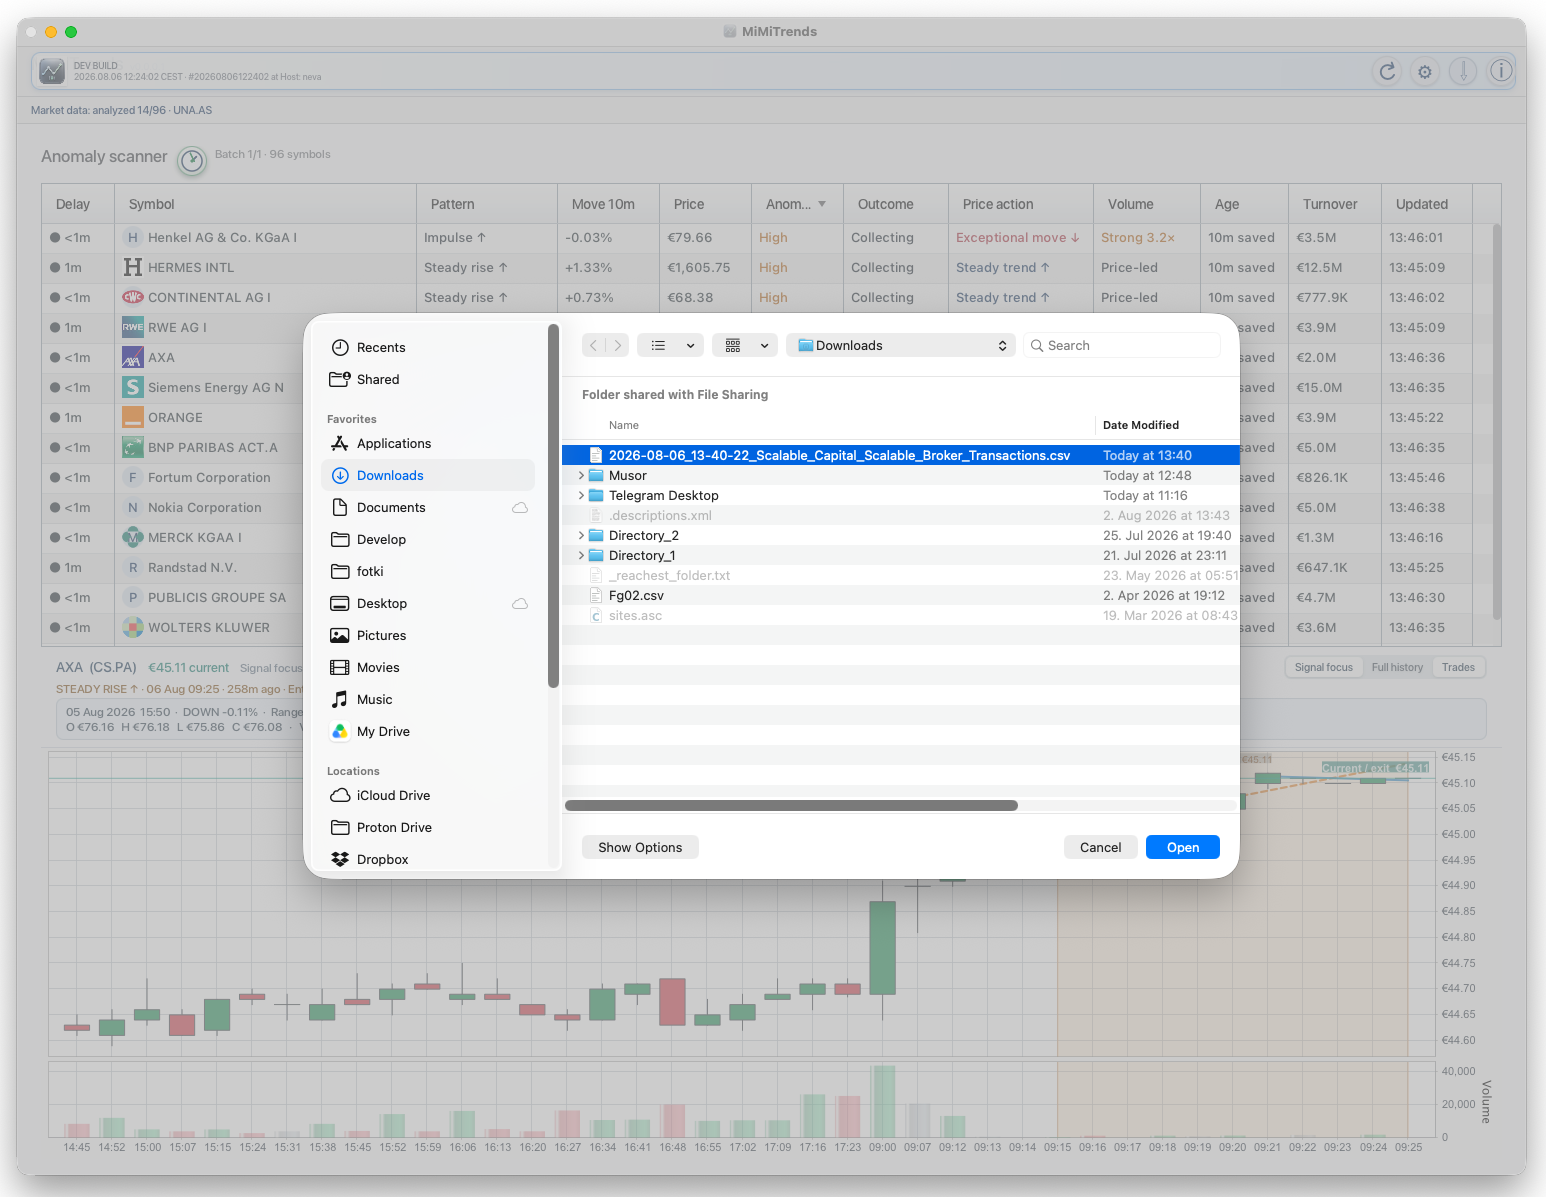
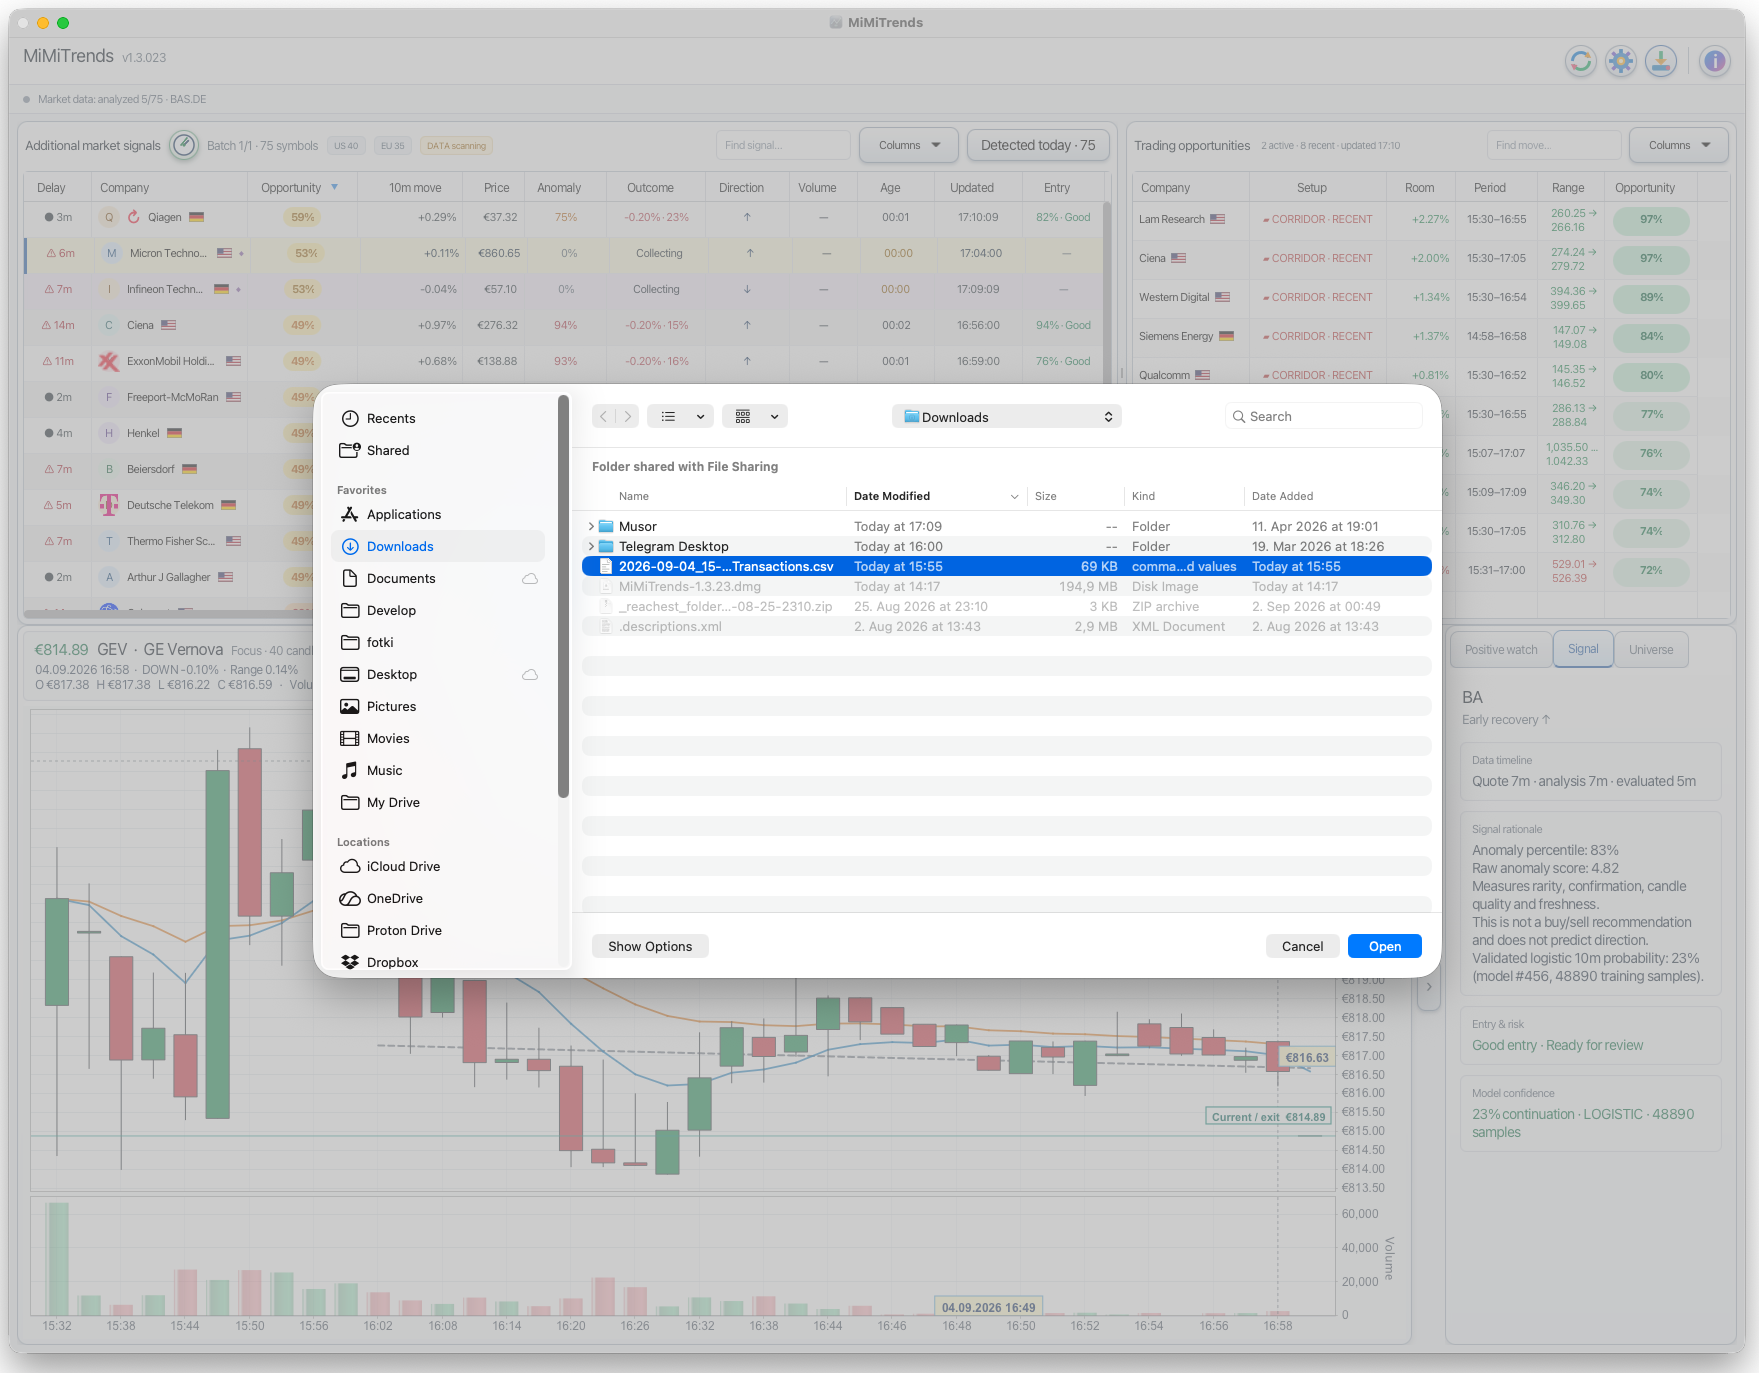
Refresh MiMiTrends screenshots and chart documentation
Replace the scanner, settings, and broker-import screenshots with current MiMiTrends 1.3.023 captures, and add a dedicated Positive watch screenshot so the gallery represents the current analytical workflow.

Update the Trends page copy and metadata to document today's exchange-local 1D session, EMA 9/21 overlays, the retrospective 30-candle trend, actionable opportunity context, and Positive watch without presenting those indicators as investment advice.

diff --git a/src/app/pages/trends/trends-page.component.html b/src/app/pages/trends/trends-page.component.html
@@ -66,11 +66,11 @@
             <div class="section-kicker">Recently improved</div>
             <div class="section-heading-block">
                 <h2 id="trends-latest-title">Sharper signals, cleaner evidence</h2>
-                <p>Current project work focuses on trustworthy timestamps, broader discovery, and patterns that remain useful as price ranges shift.</p>
+                <p>Current project work focuses on trustworthy session timing, actionable context, and chart evidence that makes recent movement easier to interpret.</p>
             </div>
             <div class="improvement-grid">
                 <article><span class="material-icons-outlined" aria-hidden="true">schedule</span><h3>Honest market time</h3><p>Broker hours and price-market hours are distinguished, while fallback timestamps remain explicit instead of making stale quotes look current.</p></article>
-                <article><span class="material-icons-outlined" aria-hidden="true">waves</span><h3>Range-aware cycles</h3><p>Repeating two- and three-minute traffic is recognized even when the underlying price range shifts.</p></article>
+                <article><span class="material-icons-outlined" aria-hidden="true">waves</span><h3>Readable intraday direction</h3><p>The 1D view stays inside today's exchange-local session, with EMA 9/21 and a clearly retrospective 30-candle trend over the price chart.</p></article>
                 <article><span class="material-icons-outlined" aria-hidden="true">travel_explore</span><h3>Leaders every cycle</h3><p>Top public performance and most-traded candidates are refreshed, resolved, and evaluated on each scan pass.</p></article>
             </div>
         </section>
@@ -79,7 +79,7 @@
             <div class="quick-strip-item"><strong>Discover</strong><span>Read a bounded first-page set of current performance and trading-volume leaders before every scan.</span></div>
             <div class="quick-strip-item"><strong>Detect</strong><span>Find statistically unusual impulses, reversals, and persistent trends instead of ordinary noise.</span></div>
             <div class="quick-strip-item"><strong>Rank</strong><span>Prioritize fresh, explainable candidates with adaptive selection and configurable guardrails.</span></div>
-            <div class="quick-strip-item"><strong>Inspect</strong><span>Review candles, volume, signal context, and your imported executions on the same chart.</span></div>
+            <div class="quick-strip-item"><strong>Inspect</strong><span>Review candles, volume, EMA direction, signal context, and your imported executions on the same chart.</span></div>
         </section>
 
         <section class="feature-overview" id="features">
@@ -120,7 +120,7 @@
         </section>
 
         <section class="details" id="preview">
-            <div class="details-copy"><div class="section-kicker">Screenshots</div><h2 class="section-heading-title">Real screens from the Kotlin desktop app</h2><p class="hero-text">Inspect the scanner, chart, configuration, and local transaction-import workflow.</p></div>
+            <div class="details-copy"><div class="section-kicker">Screenshots</div><h2 class="section-heading-title">Real screens from the Kotlin desktop app</h2><p class="hero-text">Inspect the scanner, trend chart, positive watch, configuration, and local transaction-import workflow.</p></div>
             <div class="preview-grid trends-preview-grid">
                 <article class="preview-card" *ngFor="let screenshot of screenshots">
                     <button type="button" class="preview-card-trigger" (click)="openScreenshot(screenshot)" [attr.aria-label]="'Enlarge ' + screenshot.title">

diff --git a/src/app/pages/trends/trends-page.component.ts b/src/app/pages/trends/trends-page.component.ts
@@ -39,7 +39,13 @@ export class TrendsPageComponent implements OnInit {
             src: '/images/trends/MainWindow.png',
             alt: 'MiMiTrends anomaly scanner and signal chart',
             title: 'Scanner and signal chart',
-            description: 'Rank fresh signals, inspect minute candles, volume, entry context, and imported executions in one workspace.'
+            description: 'Rank fresh signals and actionable setups while inspecting minute candles, volume, EMA 9/21, Trend 30, and entry context in one workspace.'
+        },
+        {
+            src: '/images/trends/PositiveWatch.png',
+            alt: 'MiMiTrends positive watch list and intraday trend chart',
+            title: 'Positive watch and trend context',
+            description: 'Compare downside-safety candidates with current-session candles, confirmation counts, entry quality, EMA 9/21, and the retrospective 30-candle trend.'
         },
         {
             src: '/images/trends/ScannerSettings.png',
@@ -121,14 +127,14 @@ export class TrendsPageComponent implements OnInit {
 
     private applySeoMetadata(): void {
         const title = 'MiMiTrends — Local-First Market Anomaly Scanner for US and European Stocks';
-        const description = 'Local-first Kotlin and JavaFX stock scanner with performance-led discovery, fresh anomaly ranking, repeating short-cycle detection, and explainable US and European market analysis.';
+        const description = 'Local-first Kotlin and JavaFX stock scanner with fresh anomaly ranking, actionable opportunity retention, positive-watch context, and explainable intraday trend overlays for US and European equities.';
         const imageUrl = 'https://miminavi.tech/images/trends/MainWindow.png';
         const pageUrl = 'https://miminavi.tech/trends';
 
         this.document.title = title;
         this.setMeta('name', 'description', description);
         this.setMeta('name', 'application-name', 'MiMiTrends');
-        this.setMeta('name', 'keywords', 'MiMiTrends, market anomaly scanner, live stock leader discovery, stock performance scanner, most traded stocks, range-aware repeating price cycle detector, stock anomaly detector, unusual price movement, momentum scanner, US stock scanner, European stock scanner, Kotlin desktop app, JavaFX trading software, local-first market analysis, OHLCV scanner, volume anomaly, V-shaped reversal detector, SQLite and DuckDB market analytics');
+        this.setMeta('name', 'keywords', 'MiMiTrends, market anomaly scanner, live stock leader discovery, positive watch, actionable trading opportunities, EMA 9, EMA 21, intraday trend overlay, stock anomaly detector, unusual price movement, momentum scanner, US stock scanner, European stock scanner, Kotlin desktop app, JavaFX trading software, local-first market analysis, OHLCV scanner, V-shaped reversal detector, SQLite and DuckDB market analytics');
         this.setMeta('property', 'og:site_name', 'MiMiTrends');
         this.setMeta('property', 'og:title', title);
         this.setMeta('property', 'og:description', description);
